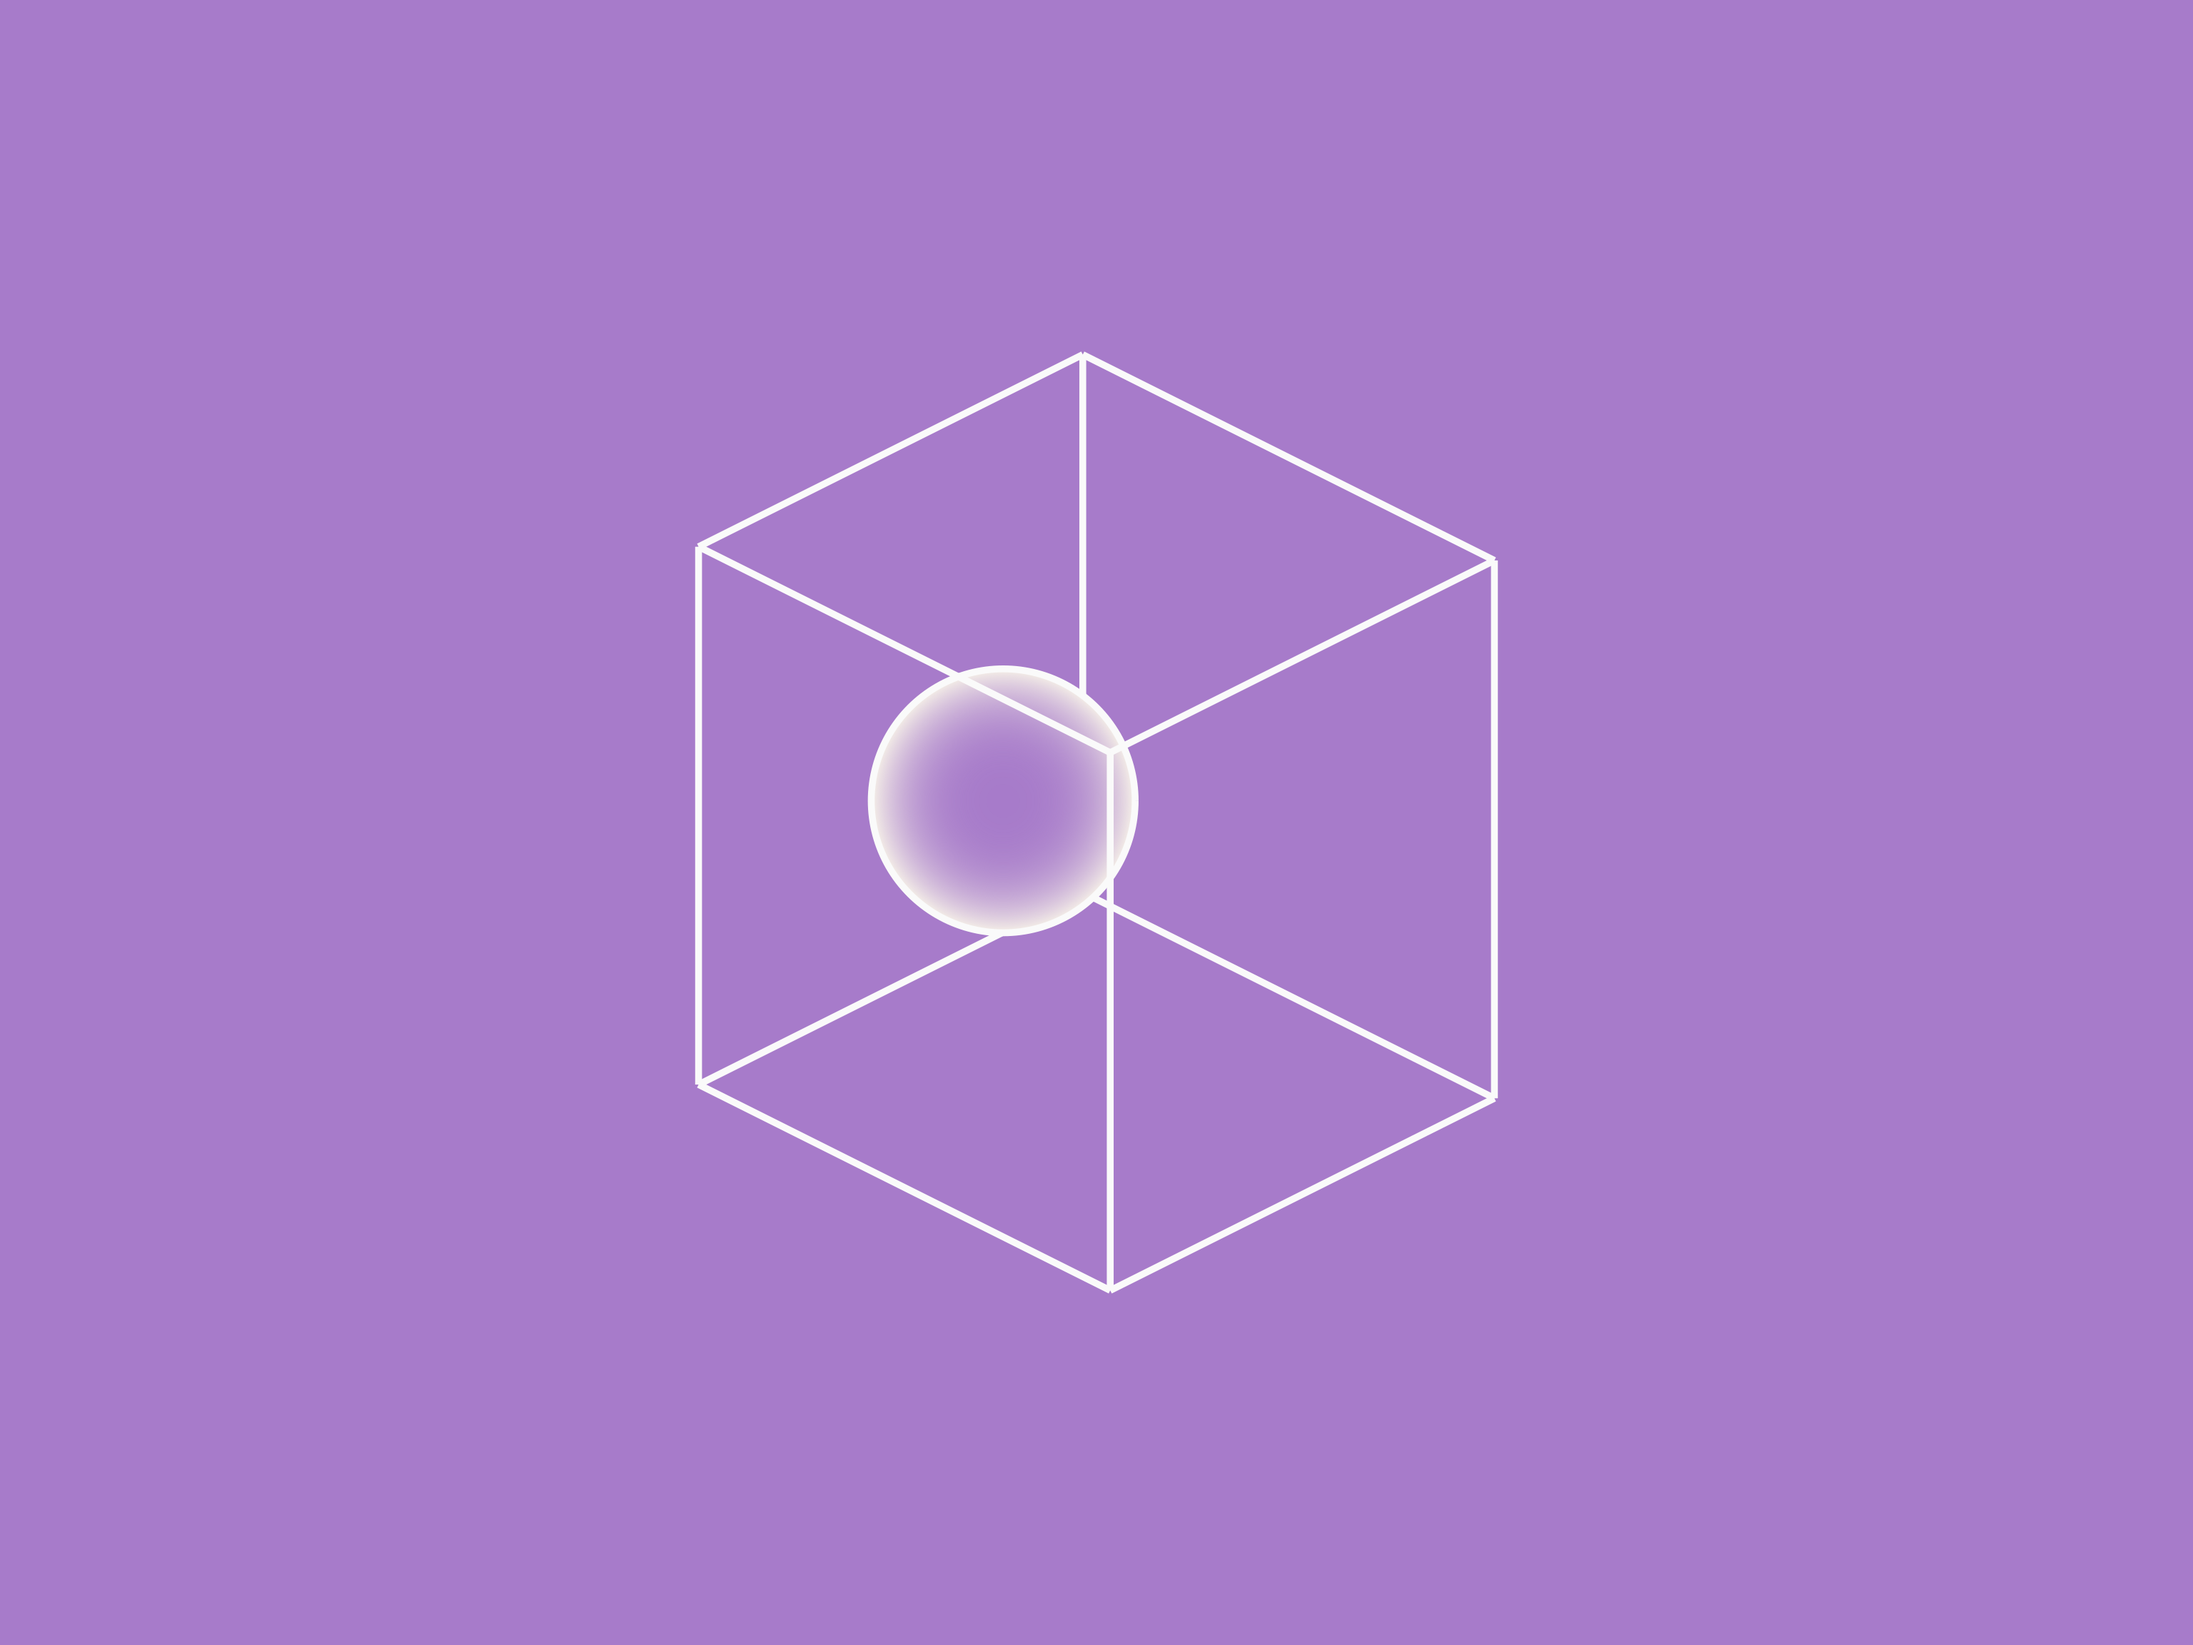
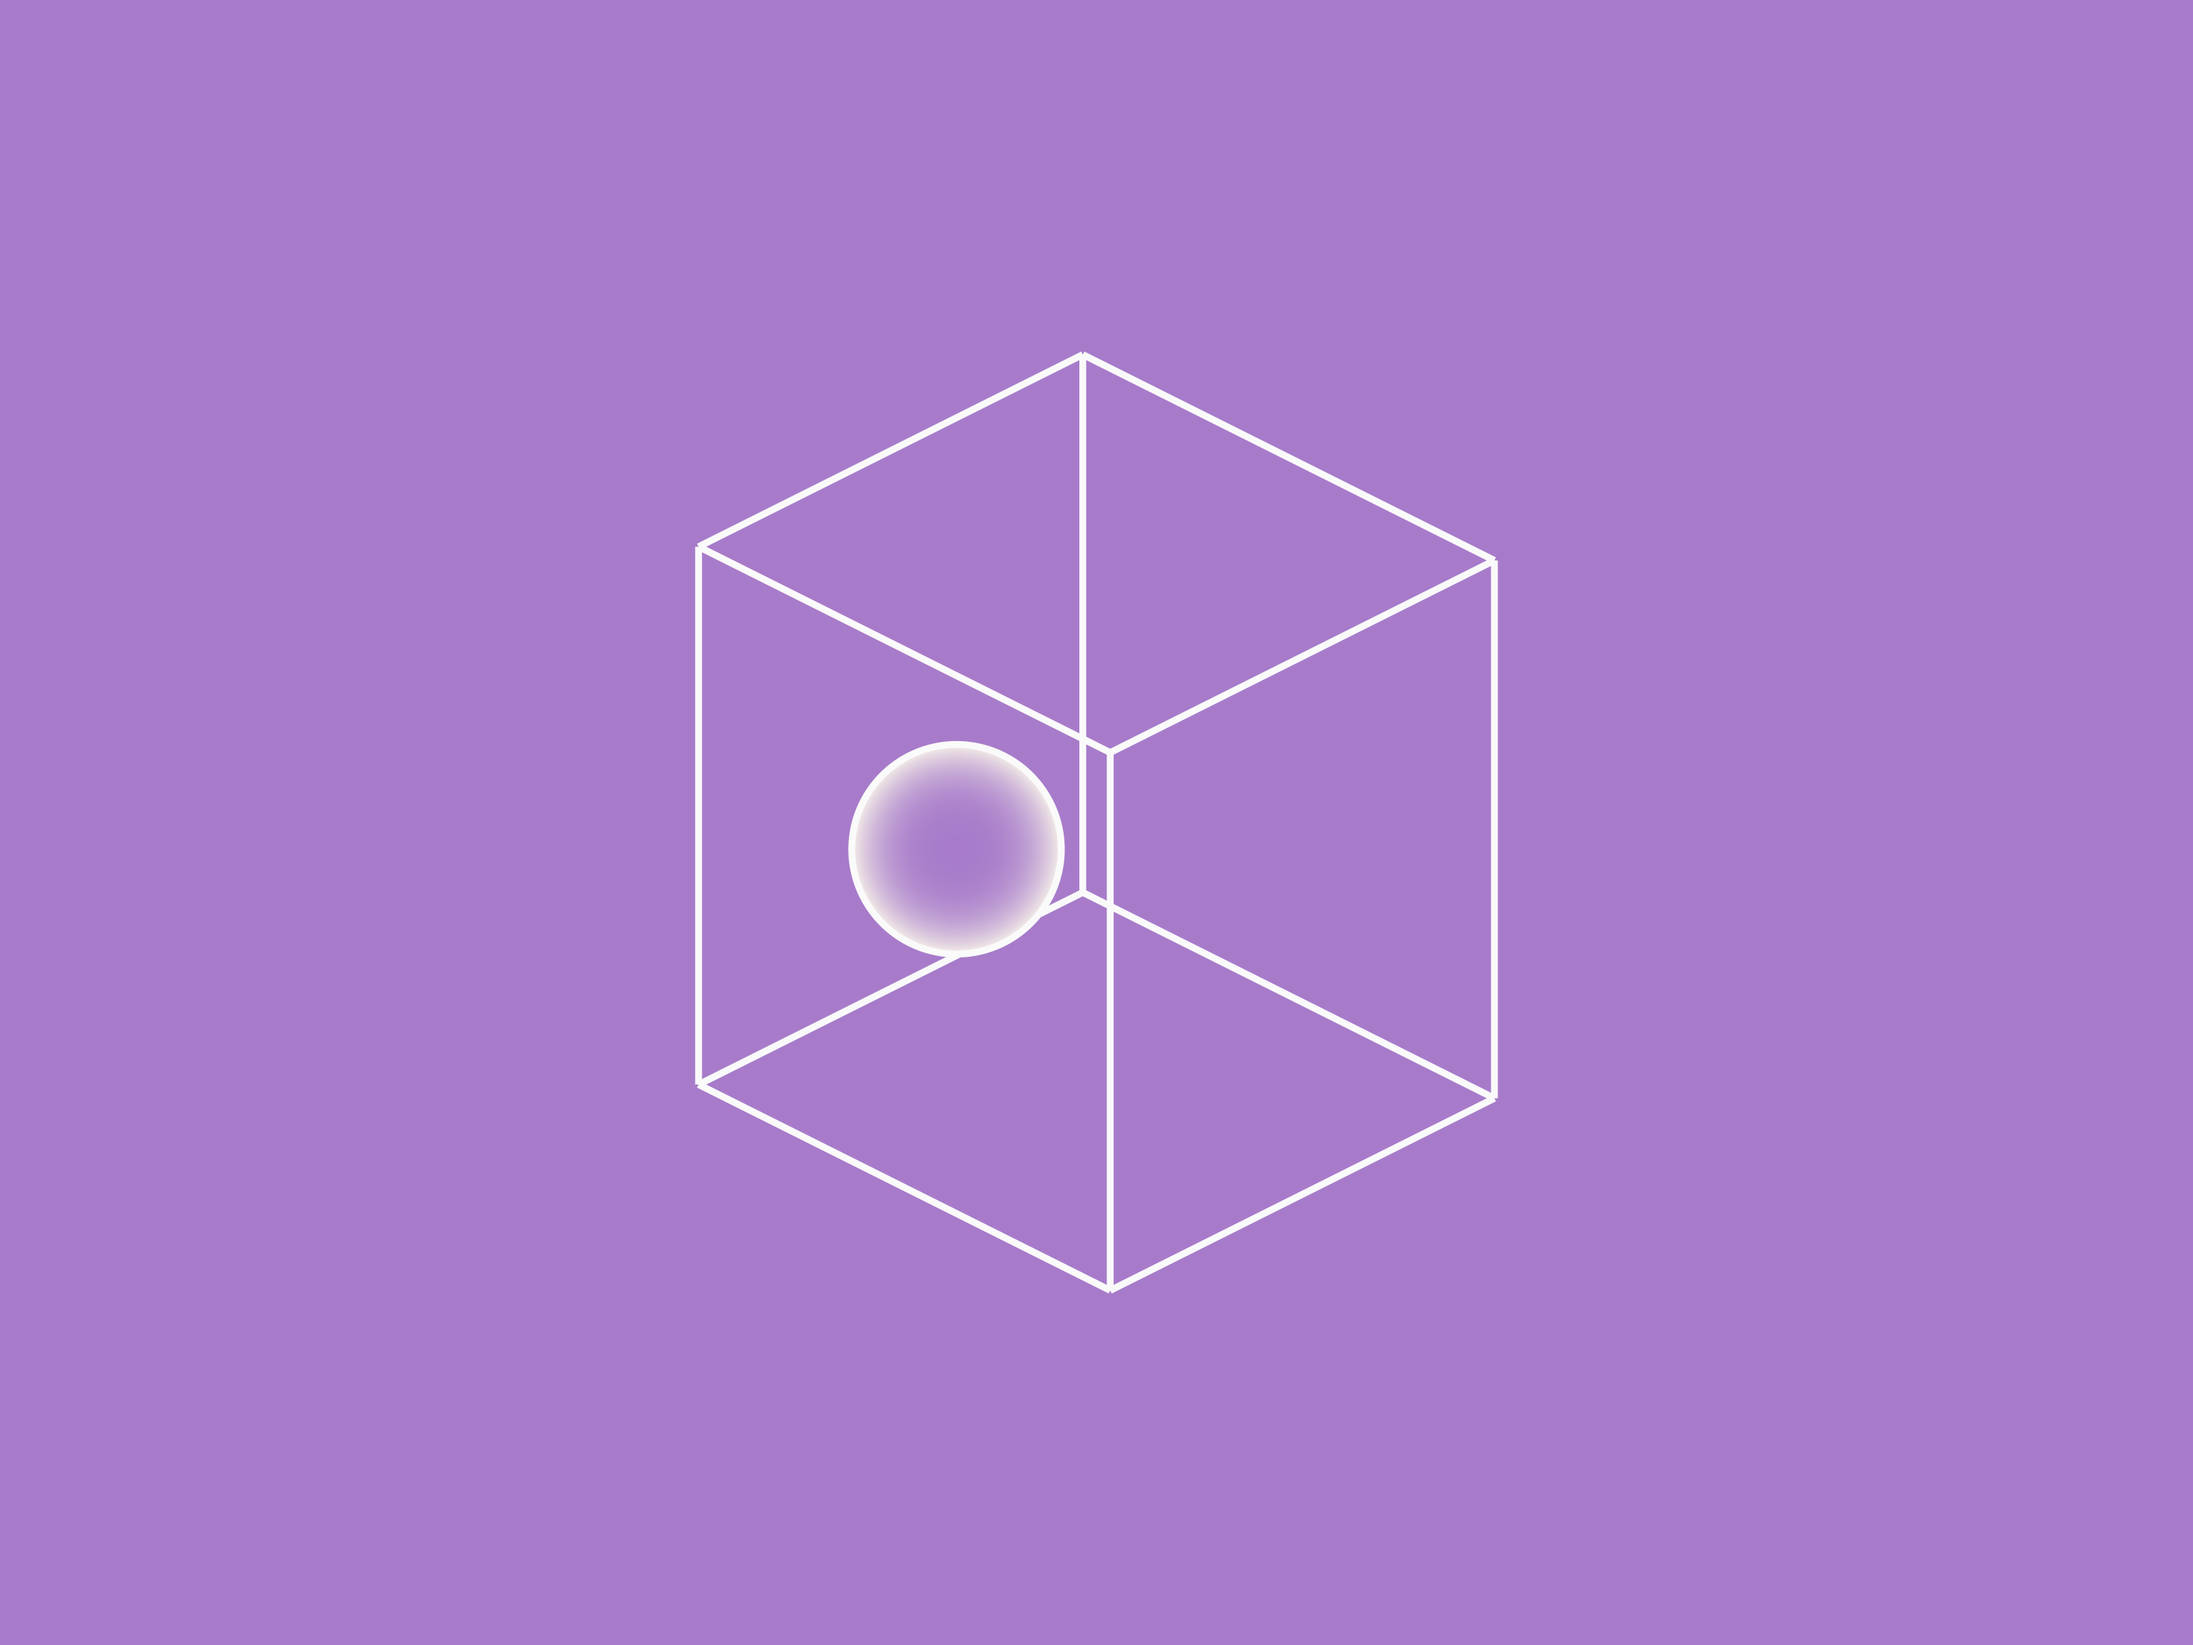
Rework how-much-autonomy-should-an-agent-have as coherent abstract geometry

Changed region(s): [[0.375, 0.4062, 0.5312, 0.5938]]

diff --git a/docs/design/blog-illustrations-2026-11-17/how-much-autonomy-should-an-agent-have/decision.md b/docs/design/blog-illustrations-2026-11-17/how-much-autonomy-should-an-agent-have/decision.md
@@ -1,9 +1,17 @@
-# How much autonomy should an agent have? — abstract bounded-volume revision
+# How much autonomy should an agent have? — freedom within limits
 
-The article is about allowing useful freedom inside explicit limits. One highlighted sphere sits off-center within an open cubic enclosure, with room to move in all directions. This follows the user's latest preference for abstract concepts and replaces the literal dial. It also differs from the rejected flat frame and cube: the boundary is a complete three-dimensional volume and the inner form is a genuine sphere.
+The abstract concept is a sphere with room to move inside a defined open volume. The enclosure is a genuine twelve-edge wireframe built from eight shared vertices, not an opaque box or an incomplete front-only drawing. The sphere is real 3D geometry with equal orthogonal radii.
 
-Two main forms are modeled. The enclosure measures 150 × 160 × 140. Its twelve structural edges are generated from eight shared vertices, with three edges meeting at every corner. There are no opaque panels, no duplicate edges and no normal-based rear-edge culling from the box primitive. The sphere has radius 34 and center (−20, 4, 14), giving at least 21 units of clearance from every physical boundary. The renderer computes its apparent contour from the actual spherical geometry at each angle. Sphere surfaces correctly hide the wire segments behind them; nearer wire segments remain visible in front.
+## Targeted projection correction
 
-The first placement appeared nearly tangent to the lower projected cage edge in the oblique view despite having physical clearance. The sphere was moved upward and left within the same enclosure. The final neutral, oblique, back and underside views were inspected on Dark and Light. The oblique view now has distinct clearance; near enclosure edges cross the sphere transversely in the neutral/back projections rather than suggesting a barely touching surface. Those crossings are correct depth relationships between front wires and an interior sphere. No cage face exists that could incorrectly show through the sphere's highlight, and rear wire runs disappear behind the sphere as expected.
+Independent review found that the earlier sphere, although physically clear of the frame, overlapped the foreground frame corner in the neutral projection. That made it appear attached to the boundary. The corrected center is `[-28, -10, 23]` with radius `27`. It retains world clearances of 20, 43 and 20 units along X, Y and Z, respectively, while leaving visible screen-space separation from foreground frame lines.
 
-All eight renderer checks and concept assertions passed: twelve unique structural edges, eight degree-three vertices, orthogonal equal-radius sphere axes, no opaque enclosure faces, a genuinely off-center placement and positive clearance from all six boundaries. Root applies the final approved colors, 4:3 vector framing and 1.6-unit outlines. No shared runtime, export, map or Git edits were made.
+A candidate using radius 30 still crossed a foreground edge in the back view, so the final radius was chosen against all four prescribed orientations. New assertions project the actual frame edges and sphere center into each view, isolate each edge's foreground portion, and measure its closest screen-space approach. Every foreground edge stays more than 5 projected world units from the sphere silhouette; the minimum is about 5.53. No foreground corner or edge touches or crosses the sphere in the reviewed views.
+
+## Geometry and visual review
+
+Rerendered and inspected all eight neutral, oblique, back and underside exports in Dark and Light. The sphere now reads as separate from the foreground corner in the neutral and back views, with clear space for movement. Lines behind the solid sphere are correctly occluded; the frame remains complete with three shared edges meeting at each of its eight vertices. Oblique and underside views retain genuine volume and a spherical silhouette. No missing frame edges, duplicate strokes, world intersections, foreground tangencies or highlight bleed was observed.
+
+The recipe verifies all twelve unique axis-aligned frame edges, correct vertex degree, absence of opaque cage panels, equal sphere radii, orthogonal axes, minimum physical clearances and projected foreground clearance in every review orientation. All eight mechanical checks and the expanded recipe assertions pass.
+
+The user-approved abstract concept and palette direction remain intact. Original-renderer Iris review files approve geometry; the root agent applies Paper/Cream, the approved background, 1.6-unit lines and 4:3 direct SVG framing. No shared runtime, export files or content maps were changed in this targeted correction. Earlier literal dial and v3 page evidence are historical. Static illustration only; no motion testing was requested.
